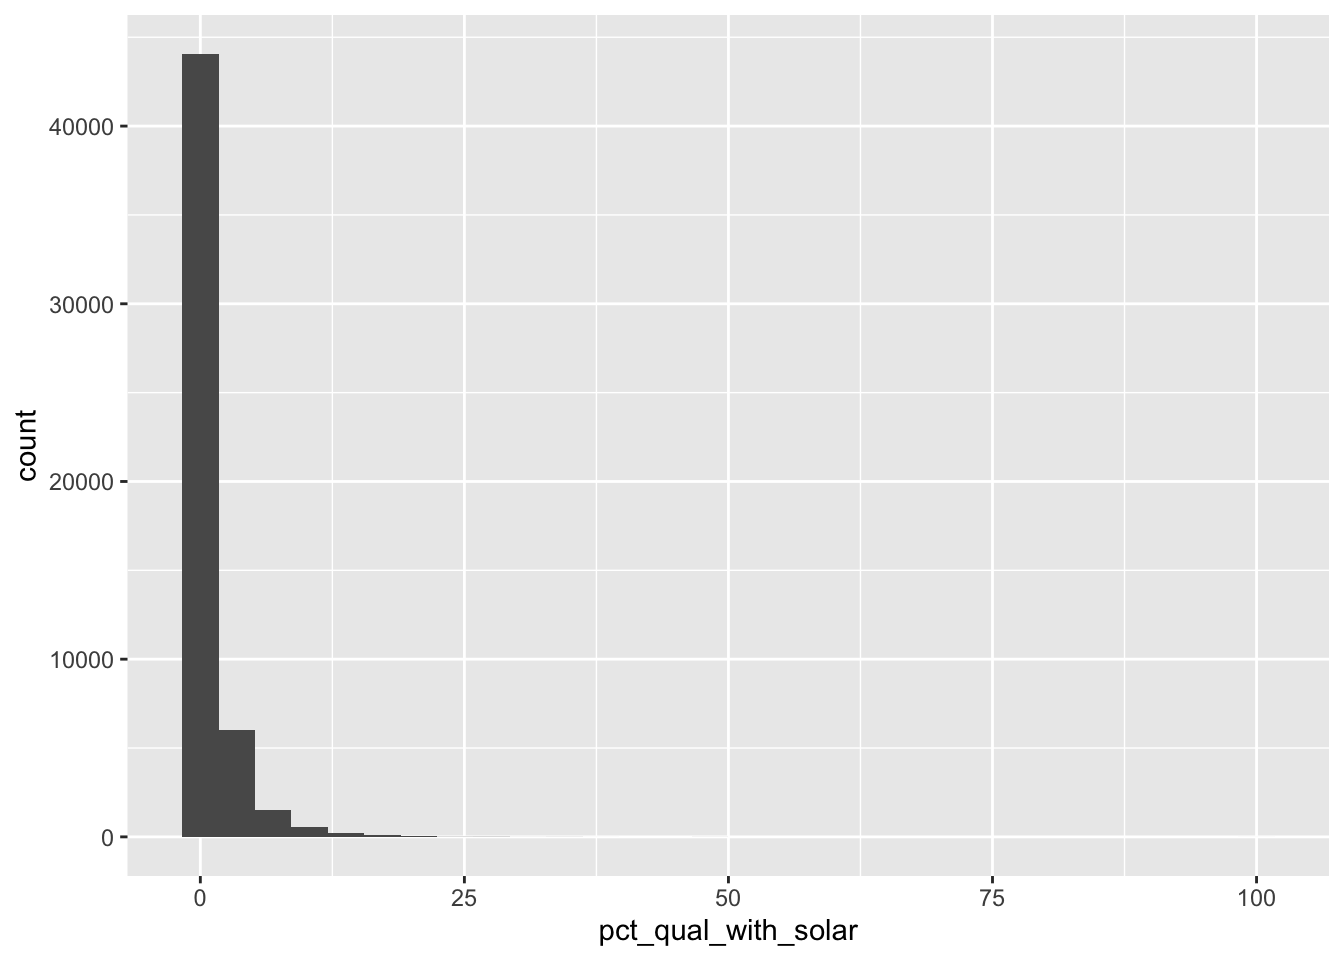
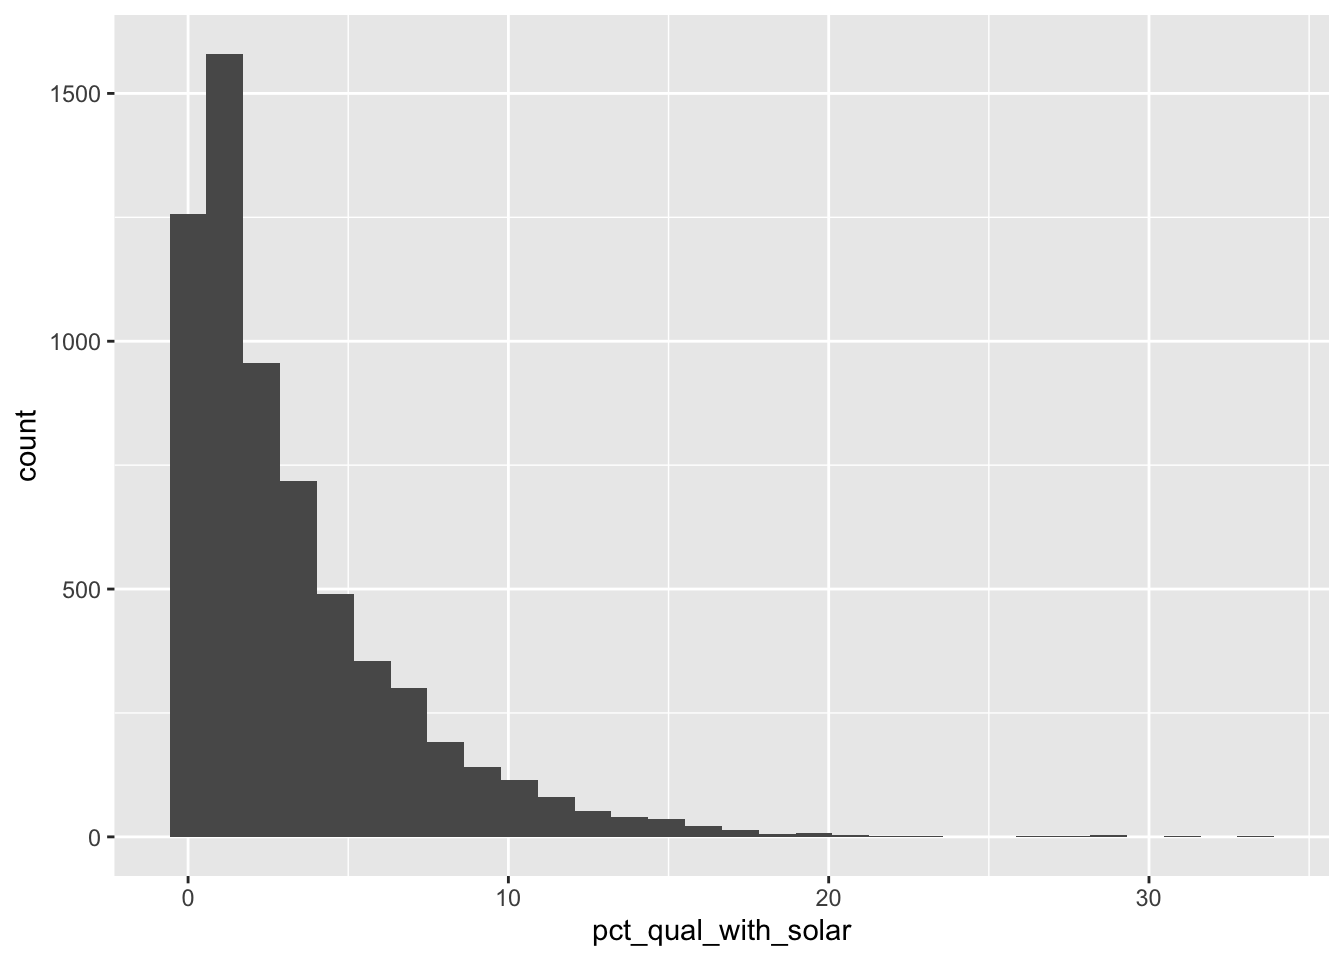
rendered

diff --git a/docs/posts/2022-12-04-22-solar-equity/index.html b/docs/posts/2022-12-04-22-solar-equity/index.html
@@ -8,7 +8,7 @@
 
 <meta name="author" content="Victoria Cutler">
 <meta name="dcterms.date" content="2022-12-08">
-<meta name="description" content="this is a description for XXX">
+<meta name="description" content="test">
 
 <title>Victoria Cutler - Is Rooftop Solar Equitable?</title>
 <style>
@@ -192,7 +192,7 @@ div.csl-indent {
       <h1 class="title">Is Rooftop Solar Equitable?</h1>
                   <div>
         <div class="description">
-          this is a description for XXX
+          test
         </div>
       </div>
                           <div class="quarto-categories">
@@ -246,6 +246,7 @@ div.csl-indent {
   <li><a href="#methods" id="toc-methods" class="nav-link" data-scroll-target="#methods">Methods</a></li>
   <li><a href="#results" id="toc-results" class="nav-link" data-scroll-target="#results">Results</a></li>
   <li><a href="#discussion" id="toc-discussion" class="nav-link" data-scroll-target="#discussion">Discussion</a></li>
+  <li><a href="#conclusion" id="toc-conclusion" class="nav-link" data-scroll-target="#conclusion">Conclusion</a></li>
   </ul>
 </nav>
     </div>
@@ -263,7 +264,7 @@ div.csl-indent {
 </section>
 <section id="objective" class="level1">
 <h1>Objective</h1>
-<p>In this post, I explore, nationwide, if income is a statistically significant predictor in rooftop solar adoption. Furthermore, I explore this relationship in California, where the California Public Utilities Commission is likely to lower financial incentives to rooftop solar adoption due, in large part, to equity concerns. To quantify how stark this contrast is, I also look to see if there is a significant difference in income relative to solar adoption.</p>
+<p>In this post, I explore, if income is a statistically significant predictor in rooftop solar adoption in California. To quantify how stark this contrast is, I also look to see if there is a significant difference in income relative to solar adoption.</p>
 </section>
 <section id="methods" class="level1">
 <h1>Methods</h1>
@@ -273,66 +274,139 @@ div.csl-indent {
 <li>Rooftop solar data found [here](https://sunroof.withgoogle.com/data-explorer/featured/1/oklahoma-city) from Google Project Sunroof which uses Google overhead imagery, weather station data, and machine learning algorithms to estimate rooftop solar potential of US buildings down to the census tract level; and</li>
 <li>California census tract spatial data found [here] (https://catalog.data.gov/dataset/tiger-line-shapefile-2019-state-california-current-census-tract-state-based) for mapping and visualizing at the census tract level.</li>
 </ol>
-<p>After reading in the data, I cleaned the data, selected only the columns of interest, and created additional columns needed for joining of data and performing analyses. Most notably, I created a variable called pct_qual_with_solar. This variable ranges from 0% to 100% and represents the ratio of the number of buildings with solar with respect to the number of buildings deemed as “qualified” for rooftop solar given the amount of sunlight and roof space. As an example, if census tract A has 10 buildings qualified for rooftop solar, and 5 buildings already have rooftop solar, census tract A would have a pct_qual_with_solar of 50%. I used this variable as a proxy for rooftop solar adoption, since I felt that purely looking at the ratio of of number of buildings with solar with respect to the number of buildings total could lead to bias if income had a relationship with whether or not buildings are qualified for rooftop solar.</p>
+<p>After reading in the data, I cleaned the data, selected only the columns of interest, and created additional columns needed for joining of data and performing analyses. Most notably, I created a variable called <code>pct_qual_with_solar</code>. This variable ranges from 0% to 100% and represents the ratio of number of buildings with solar with respect to the number of buildings deemed as “qualified” for rooftop solar<a href="#fn2" class="footnote-ref" id="fnref2" role="doc-noteref"><sup>2</sup></a>. As an example, if census tract A has 10 buildings qualified for rooftop solar, and 5 buildings in census tract A already have rooftop solar, this census tract would have a <code>pct_qual_with_solar</code> of 50%. I used this variable as a proxy for rooftop solar adoption, since I felt that purely looking at the ratio of of number of buildings with solar with respect to the number of buildings total could lead to bias if income is correlated with locations with census tracts of low rooftop solar qualifications. I refer to this variable as “solar saturation”.</p>
 <div class="cell">
 
 </div>
-<p>You can see that</p>
+<p>I first looked at the distribution of the solar saturation for the whole US and California. We see right skew which hints that these data may be a good candidate for log-normalization. However, after taking the log of my data and performing an Ordinary Least Squares (OSL) regression on the log-normalized data, I noticed that the assumptions for OLS were not better met by much. Additionally, due to the large amount of data we have at 0% solar saturation, to perform a log-normalized OLS regression would require either data manipulation, or removing much of the data.</p>
 <div class="cell">
 <details>
 <summary>code dropdown</summary>
 <div class="sourceCode cell-code" id="cb1"><pre class="sourceCode r code-with-copy"><code class="sourceCode r"><span id="cb1-1"><a href="#cb1-1" aria-hidden="true" tabindex="-1"></a><span class="co"># Exploration of Distribution/Normality of Solar Data</span></span>
 <span id="cb1-2"><a href="#cb1-2" aria-hidden="true" tabindex="-1"></a></span>
-<span id="cb1-3"><a href="#cb1-3" aria-hidden="true" tabindex="-1"></a>  <span class="co"># raw solar data distribution for the US</span></span>
-<span id="cb1-4"><a href="#cb1-4" aria-hidden="true" tabindex="-1"></a><span class="fu">ggplot</span>(<span class="at">data =</span> solardata, <span class="fu">aes</span>(<span class="at">x =</span> pct_qual_with_solar)) <span class="sc">+</span></span>
+<span id="cb1-3"><a href="#cb1-3" aria-hidden="true" tabindex="-1"></a>  <span class="co"># raw solar data distribution for California</span></span>
+<span id="cb1-4"><a href="#cb1-4" aria-hidden="true" tabindex="-1"></a><span class="fu">ggplot</span>(<span class="at">data =</span> cleandata, <span class="fu">aes</span>(<span class="at">x =</span> pct_qual_with_solar)) <span class="sc">+</span></span>
 <span id="cb1-5"><a href="#cb1-5" aria-hidden="true" tabindex="-1"></a>  <span class="fu">geom_histogram</span>() <span class="co"># essentially no left tail, large right skew, good candidate for a log transformation to get data normal</span></span></code><button title="Copy to Clipboard" class="code-copy-button"><i class="bi"></i></button></pre></div>
 </details>
 <div class="cell-output-display">
 <p><img src="index_files/figure-html/unnamed-chunk-2-1.png" class="img-fluid" width="672"></p>
 </div>
-<details>
-<summary>code dropdown</summary>
-<div class="sourceCode cell-code" id="cb2"><pre class="sourceCode r code-with-copy"><code class="sourceCode r"><span id="cb2-1"><a href="#cb2-1" aria-hidden="true" tabindex="-1"></a>  <span class="co"># raw solar data distribution for CA</span></span>
-<span id="cb2-2"><a href="#cb2-2" aria-hidden="true" tabindex="-1"></a><span class="fu">ggplot</span>(<span class="at">data =</span> solardata[solardata<span class="sc">$</span>state_name <span class="sc">==</span> <span class="st">"California"</span>,], <span class="fu">aes</span>(<span class="at">x =</span> pct_qual_with_solar)) <span class="sc">+</span></span>
-<span id="cb2-3"><a href="#cb2-3" aria-hidden="true" tabindex="-1"></a>  <span class="fu">geom_histogram</span>() <span class="co"># essentially no left tail, large right skew, good candidate for a log transformation to get data normal</span></span></code><button title="Copy to Clipboard" class="code-copy-button"><i class="bi"></i></button></pre></div>
-</details>
-<div class="cell-output-display">
-<p><img src="index_files/figure-html/unnamed-chunk-2-2.png" class="img-fluid" width="672"></p>
 </div>
-<details>
-<summary>code dropdown</summary>
-<div class="sourceCode cell-code" id="cb3"><pre class="sourceCode r code-with-copy"><code class="sourceCode r"><span id="cb3-1"><a href="#cb3-1" aria-hidden="true" tabindex="-1"></a>  <span class="co"># the distribution looks more normal when we log it, for the whole US:</span></span>
-<span id="cb3-2"><a href="#cb3-2" aria-hidden="true" tabindex="-1"></a><span class="fu">ggplot</span>(<span class="at">data =</span> solardata, <span class="fu">aes</span>(<span class="at">x =</span> <span class="fu">log</span>(pct_qual_with_solar))) <span class="sc">+</span></span>
-<span id="cb3-3"><a href="#cb3-3" aria-hidden="true" tabindex="-1"></a>  <span class="fu">geom_histogram</span>() </span></code><button title="Copy to Clipboard" class="code-copy-button"><i class="bi"></i></button></pre></div>
-</details>
-<div class="cell-output-display">
-<p><img src="index_files/figure-html/unnamed-chunk-2-3.png" class="img-fluid" width="672"></p>
-</div>
-<details>
-<summary>code dropdown</summary>
-<div class="sourceCode cell-code" id="cb4"><pre class="sourceCode r code-with-copy"><code class="sourceCode r"><span id="cb4-1"><a href="#cb4-1" aria-hidden="true" tabindex="-1"></a>  <span class="co"># the distribution looks more normal when we log it, for california:</span></span>
-<span id="cb4-2"><a href="#cb4-2" aria-hidden="true" tabindex="-1"></a><span class="fu">ggplot</span>(<span class="at">data =</span> solardata[solardata<span class="sc">$</span>state_name <span class="sc">==</span> <span class="st">"California"</span>,], <span class="fu">aes</span>(<span class="at">x =</span> <span class="fu">log</span>(pct_qual_with_solar))) <span class="sc">+</span></span>
-<span id="cb4-3"><a href="#cb4-3" aria-hidden="true" tabindex="-1"></a>  <span class="fu">geom_histogram</span>() </span></code><button title="Copy to Clipboard" class="code-copy-button"><i class="bi"></i></button></pre></div>
-</details>
-<div class="cell-output-display">
-<p><img src="index_files/figure-html/unnamed-chunk-2-4.png" class="img-fluid" width="672"></p>
-</div>
-</div>
-<ul>
-<li>checked to see if OLS assumptions were met</li>
-</ul>
 </section>
 <section id="results" class="level1">
 <h1>Results</h1>
+<p>Regression: I chose to use median census tract income over income status because it explained the variation better.</p>
+<div class="cell">
+<details>
+<summary>code dropdown</summary>
+<div class="sourceCode cell-code" id="cb2"><pre class="sourceCode r code-with-copy"><code class="sourceCode r"><span id="cb2-1"><a href="#cb2-1" aria-hidden="true" tabindex="-1"></a>mod_ca <span class="ot">&lt;-</span> <span class="fu">lm</span>(pct_qual_with_solar <span class="sc">~</span> tract_med_family_income <span class="sc">+</span> yearly_sunlight_kwh_median, <span class="at">data =</span> cleandata)</span>
+<span id="cb2-2"><a href="#cb2-2" aria-hidden="true" tabindex="-1"></a><span class="fu">summary</span>(mod_ca)</span></code><button title="Copy to Clipboard" class="code-copy-button"><i class="bi"></i></button></pre></div>
+</details>
+<div class="cell-output cell-output-stdout">
+<pre><code>
+Call:
+lm(formula = pct_qual_with_solar ~ tract_med_family_income + 
+    yearly_sunlight_kwh_median, data = cleandata)
+
+Residuals:
+     Min       1Q   Median       3Q      Max 
+-18.6356  -1.5504  -0.5476   1.0429  27.0392 
+
+Coefficients:
+                             Estimate Std. Error t value Pr(&gt;|t|)    
+(Intercept)                -6.757e-01  8.637e-02  -7.823 6.00e-15 ***
+tract_med_family_income     3.842e-05  7.547e-07  50.909  &lt; 2e-16 ***
+yearly_sunlight_kwh_median  8.022e-06  1.292e-06   6.211 5.59e-10 ***
+---
+Signif. codes:  0 '***' 0.001 '**' 0.01 '*' 0.05 '.' 0.1 ' ' 1
+
+Residual standard error: 2.943 on 6376 degrees of freedom
+Multiple R-squared:  0.2927,    Adjusted R-squared:  0.2925 
+F-statistic:  1319 on 2 and 6376 DF,  p-value: &lt; 2.2e-16</code></pre>
+</div>
+<details>
+<summary>code dropdown</summary>
+<div class="sourceCode cell-code" id="cb4"><pre class="sourceCode r code-with-copy"><code class="sourceCode r"><span id="cb4-1"><a href="#cb4-1" aria-hidden="true" tabindex="-1"></a>mod_ca  <span class="sc">%&gt;%</span></span>
+<span id="cb4-2"><a href="#cb4-2" aria-hidden="true" tabindex="-1"></a>  <span class="fu">summary</span>() <span class="sc">%&gt;%</span> </span>
+<span id="cb4-3"><a href="#cb4-3" aria-hidden="true" tabindex="-1"></a>  <span class="fu">xtable</span>() <span class="sc">%&gt;%</span> </span>
+<span id="cb4-4"><a href="#cb4-4" aria-hidden="true" tabindex="-1"></a>  <span class="fu">kable</span>()</span></code><button title="Copy to Clipboard" class="code-copy-button"><i class="bi"></i></button></pre></div>
+</details>
+<div class="cell-output-display">
+<table class="table table-sm table-striped">
+<colgroup>
+<col style="width: 34%">
+<col style="width: 14%">
+<col style="width: 14%">
+<col style="width: 12%">
+<col style="width: 24%">
+</colgroup>
+<thead>
+<tr class="header">
+<th style="text-align: left;"></th>
+<th style="text-align: right;">Estimate</th>
+<th style="text-align: right;">Std. Error</th>
+<th style="text-align: right;">t value</th>
+<th style="text-align: right;">Pr(&gt;|t|)</th>
+</tr>
+</thead>
+<tbody>
+<tr class="odd">
+<td style="text-align: left;">(Intercept)</td>
+<td style="text-align: right;">-0.6756526</td>
+<td style="text-align: right;">0.0863672</td>
+<td style="text-align: right;">-7.823025</td>
+<td style="text-align: right;">0</td>
+</tr>
+<tr class="even">
+<td style="text-align: left;">tract_med_family_income</td>
+<td style="text-align: right;">0.0000384</td>
+<td style="text-align: right;">0.0000008</td>
+<td style="text-align: right;">50.908708</td>
+<td style="text-align: right;">0</td>
+</tr>
+<tr class="odd">
+<td style="text-align: left;">yearly_sunlight_kwh_median</td>
+<td style="text-align: right;">0.0000080</td>
+<td style="text-align: right;">0.0000013</td>
+<td style="text-align: right;">6.211287</td>
+<td style="text-align: right;">0</td>
+</tr>
+</tbody>
+</table>
+</div>
+<details>
+<summary>code dropdown</summary>
+<div class="sourceCode cell-code" id="cb5"><pre class="sourceCode r code-with-copy"><code class="sourceCode r"><span id="cb5-1"><a href="#cb5-1" aria-hidden="true" tabindex="-1"></a>res <span class="ot">&lt;-</span> <span class="fu">resid</span>(mod_ca)</span>
+<span id="cb5-2"><a href="#cb5-2" aria-hidden="true" tabindex="-1"></a></span>
+<span id="cb5-3"><a href="#cb5-3" aria-hidden="true" tabindex="-1"></a><span class="fu">ggplot</span>(<span class="at">data =</span> mod_ca, <span class="fu">aes</span>(<span class="at">sample =</span> res)) <span class="sc">+</span></span>
+<span id="cb5-4"><a href="#cb5-4" aria-hidden="true" tabindex="-1"></a>  <span class="fu">geom_qq</span>() <span class="sc">+</span></span>
+<span id="cb5-5"><a href="#cb5-5" aria-hidden="true" tabindex="-1"></a>  <span class="fu">geom_qq_line</span>()</span></code><button title="Copy to Clipboard" class="code-copy-button"><i class="bi"></i></button></pre></div>
+</details>
+<div class="cell-output-display">
+<p><img src="index_files/figure-html/unnamed-chunk-3-1.png" class="img-fluid" width="672"></p>
+</div>
+</div>
+<ul>
+<li>talk more about the facts of the results</li>
+</ul>
+<p>Hypothesis testing:</p>
 <div class="cell">
 
 </div>
+<p>Map of California:</p>
 </section>
 <section id="discussion" class="level1">
 <h1>Discussion</h1>
-<p>Hi this is my class example blog post</p>
-<p>Here is some more text <span class="citation" data-cites="lehmann2007">(<a href="#ref-lehmann2007" role="doc-biblioref">Lehmann 2007</a>)</span></p>
-<p>here i am giong to cite my blog post from last year</p>
+<ul>
+<li><p>talk more about the implications of the results</p></li>
+<li><p>dd for further study</p></li>
+<li><p>add biases etc like how i have non residential buildings in here and if those are correlated with something</p></li>
+<li><p>the fact that tract income &gt; income class suggests that level of income matters more since the price of solar likely doesn’t vary much census tract to census tract</p></li>
+</ul>
+</section>
+<section id="conclusion" class="level1">
+<h1>Conclusion</h1>
+<p>Furthermore, I explore this relationship in California, where the California Public Utilities Commission is likely to lower financial incentives to rooftop solar adoption due, in large part, to equity concerns.</p>
 
 
 
@@ -340,9 +414,6 @@ div.csl-indent {
 
 
 <div id="quarto-appendix" class="default"><section class="quarto-appendix-contents" role="doc-bibliography"><h2 class="anchored quarto-appendix-heading">References</h2><div id="refs" class="references csl-bib-body hanging-indent" role="doc-bibliography">
-<div id="ref-lehmann2007" class="csl-entry" role="doc-biblioentry">
-Lehmann, Johannes. 2007. <span>“A Handful of Carbon.”</span> <em>Nature</em> 447 (7141): 143–44. <a href="https://doi.org/10.1038/447143a">https://doi.org/10.1038/447143a</a>.
-</div>
 <div id="ref-penn2022" class="csl-entry" role="doc-biblioentry">
 Penn, Ivan. 2022. <span>“California Regulators Propose Cutting Compensation for Rooftop Solar.”</span> November 10, 2022. <a href="https://www.nytimes.com/2022/11/10/business/energy-environment/california-rooftop-solar-net-metering.html">https://www.nytimes.com/2022/11/10/business/energy-environment/california-rooftop-solar-net-metering.html</a>.
 </div>
@@ -350,6 +421,7 @@ Penn, Ivan. 2022. <span>“California Regulators Propose Cutting Compensation fo
 
 <ol>
 <li id="fn1"><p>Low income households often lack access to solar since (1) financing options are often needed to cover the high upfront cost of solar (2) if English isn’t a first language, or many jobs ar , there liisn’t enough time to figure out<a href="#fnref1" class="footnote-back" role="doc-backlink">↩</a></p></li>
+<li id="fn2"><p>Per Google Project Sunroof criteria which considers amount of sunlight and roof space.<a href="#fnref2" class="footnote-back" role="doc-backlink">↩</a></p></li>
 </ol>
 </section><section class="quarto-appendix-contents"><h2 class="anchored quarto-appendix-heading">Citation</h2><div><div class="quarto-appendix-secondary-label">BibTeX citation:</div><pre class="sourceCode code-with-copy quarto-appendix-bibtex"><code class="sourceCode bibtex">@online{cutler2022,
   author = {Victoria Cutler},

diff --git a/docs/posts.html b/docs/posts.html
@@ -164,7 +164,7 @@ ul.task-list li input[type="checkbox"] {
 
 <div class="quarto-listing quarto-listing-container-grid" id="listing-listing">
 <div class="list grid quarto-listing-cols-3">
-<div class="g-col-1" data-index="0" data-categories="ROOFTOP SOLAR,EQUITY,STATISTICS,R" data-listing-date-sort="1670486400000" data-listing-file-modified-sort="1670616259134" data-listing-reading-time-sort="5.85">
+<div class="g-col-1" data-index="0" data-categories="ROOFTOP SOLAR,EQUITY,STATISTICS,R" data-listing-date-sort="1670486400000" data-listing-file-modified-sort="1670616631288" data-listing-reading-time-sort="5.865">
 <a href="./posts/2022-12-04-22-solar-equity/index.html" class="quarto-grid-link">
 <div class="quarto-grid-item card h-100 card-left">
 <div class="card-body post-contents">
